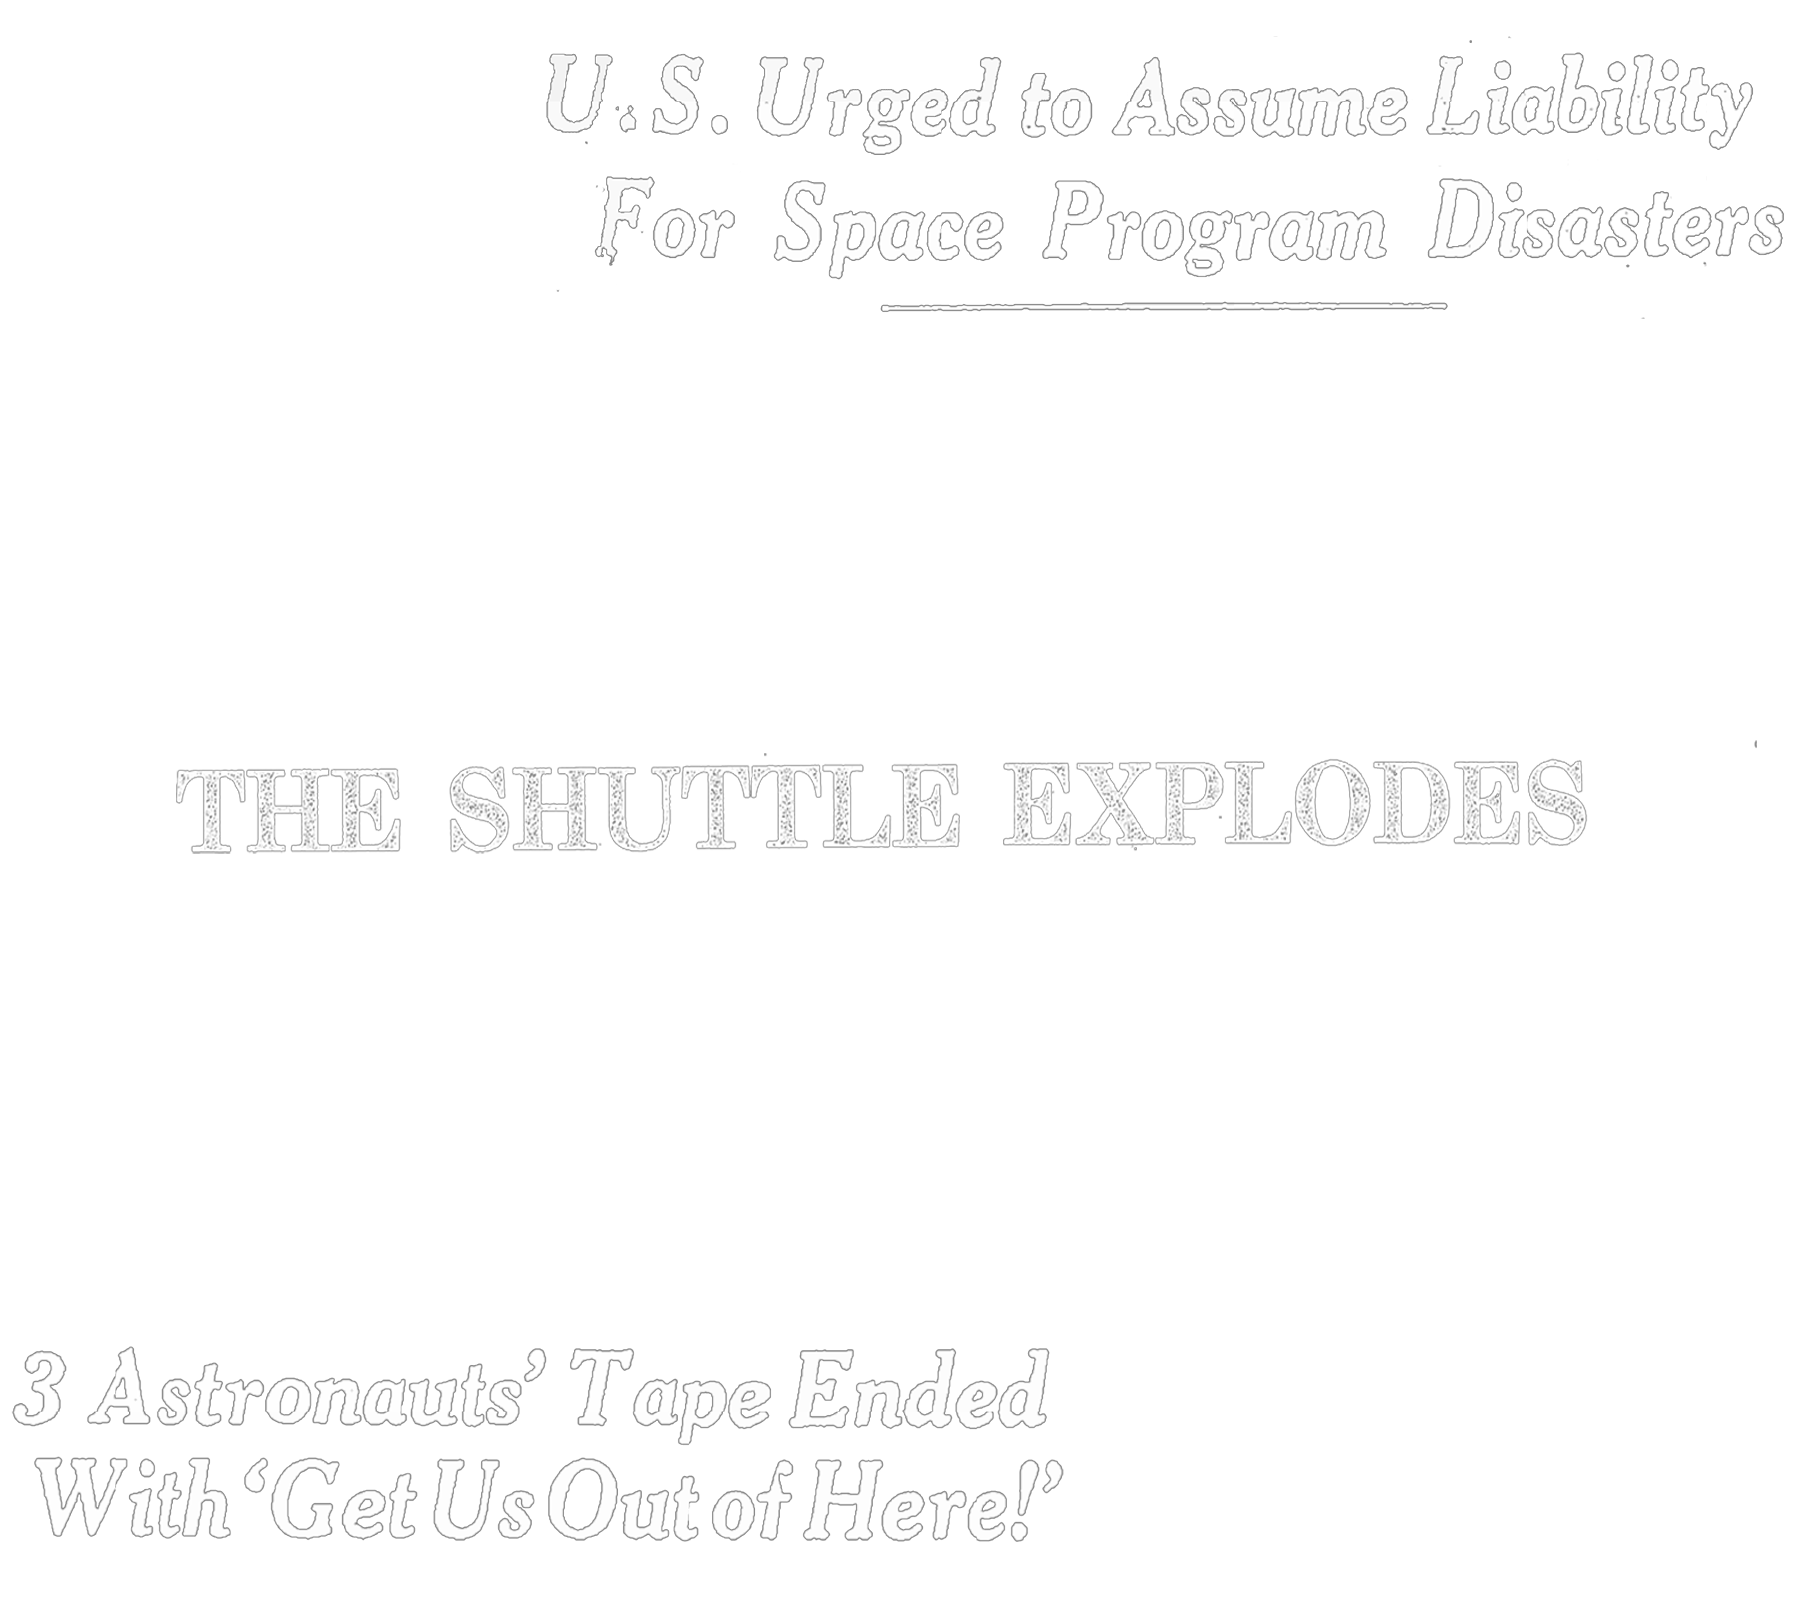
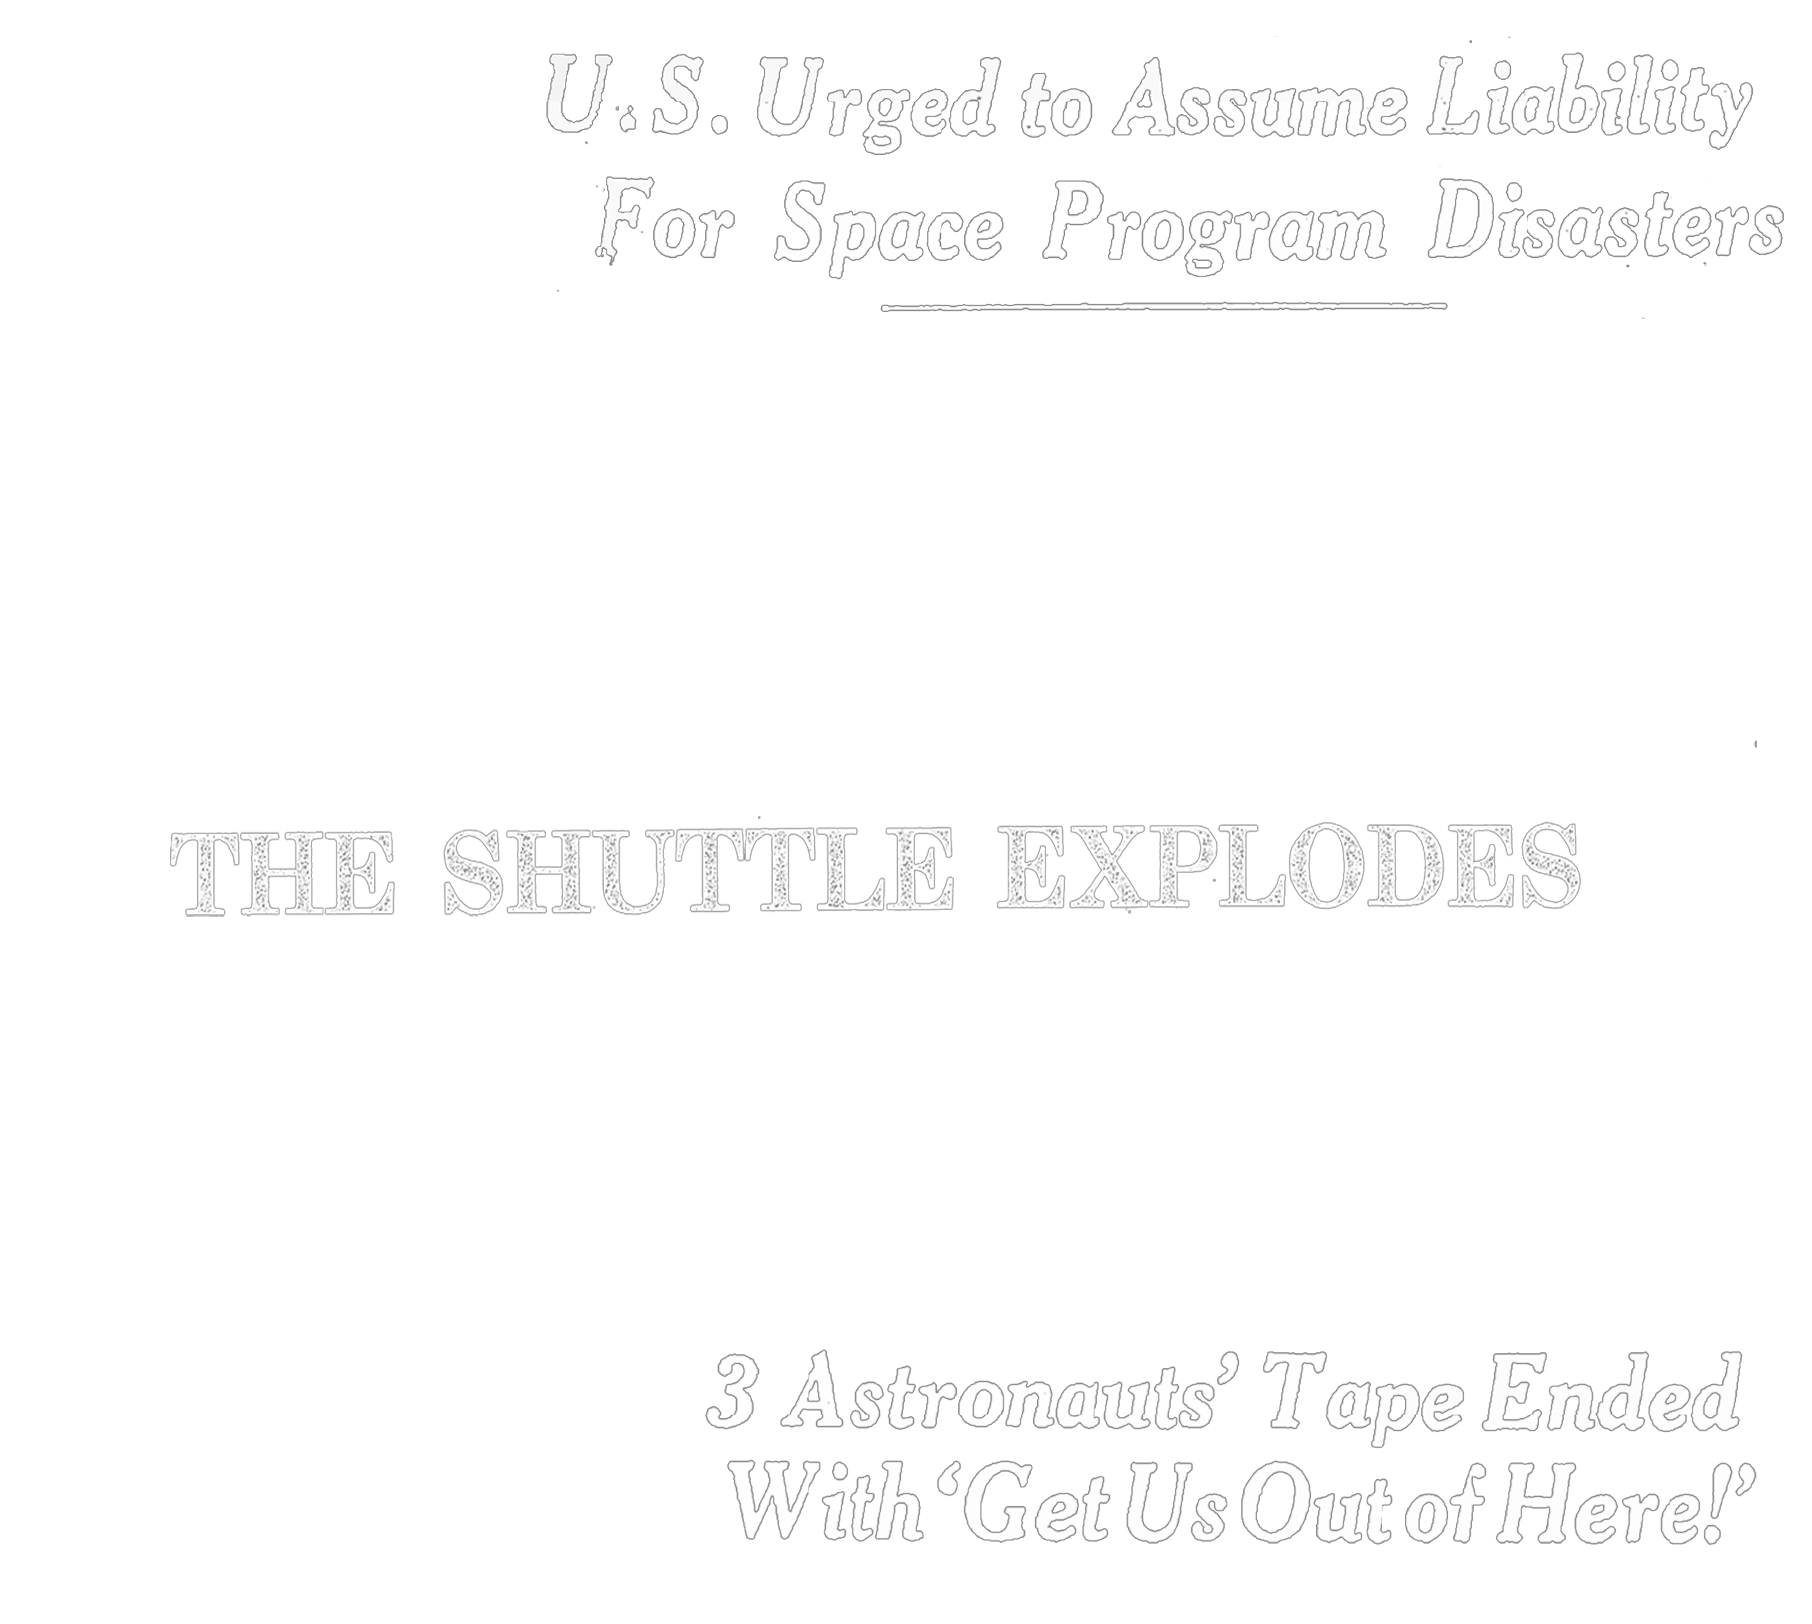
bubble chart width

diff --git a/styles.css b/styles.css
@@ -16,6 +16,8 @@
   --font-main: 'Hanken Grotesk', system-ui, sans-serif;
   --font-mono: 'Geist Mono', monospace;
   --accent-yellow: rgba(214, 208, 121, 0.9);
+  /* Shared left indent for both chart sections (rank + bubble) */
+  --chart-pad-left: clamp(20px, 4vw, 100px);
 }
 
 body {
@@ -152,16 +154,7 @@ body.tas-body {
   letter-spacing: -0.02em;
 }
 
-/* On this page, chart titles carry the page-title hierarchy */
-#rank-section-title,
-#bubble-section-title {
-  font-family: var(--font-main);
-  font-size: clamp(36px, 4.6vw, 46px);
-  font-weight: 300;
-  line-height: 1.05;
-  color: var(--c0);
-  letter-spacing: -0.02em;
-}
+/* Chart titles — both rank and bubble use .bubble-title for a single unified hierarchy */
 
 .rank-section {
   flex-shrink: 0;
@@ -171,7 +164,7 @@ body.tas-body {
   display: flex;
   flex-direction: column;
   margin-top: clamp(16px, 2.5vh, 36px);
-  padding-left: clamp(20px, 4vw, 100px);
+  padding-left: var(--chart-pad-left);
   box-sizing: border-box;
 }
 .chart-header {
@@ -261,9 +254,8 @@ body.tas-body {
   min-height: calc(100dvh - var(--nav-h));
   margin-top: clamp(40px, 6vh, 88px);
   width: 100%;
-  /* Match page padding so header aligns with page content edge */
-  padding-left: clamp(20px, 4vw, 100px);
-  padding-right: clamp(20px, 4vw, 100px);
+  padding-left: var(--chart-pad-left);
+  padding-right: var(--chart-pad-left);
   box-sizing: border-box;
 }
 
@@ -280,15 +272,15 @@ body.tas-body .bubble-section #chart-wrap {
   align-items: center;
   min-height: 0;
   margin-left: 0;}
-/* In drilldown: remove BOTH paddings so the SVG can span the full section width. */
+/* In drilldown: remove right padding so the SVG can reach the right edge,
+   but keep left padding so the SVG labels naturally align with the header title. */
 body.tas-body .bubble-section.drilldown-active {
   padding-right: 0;
-  padding-left: 0;
 }
-/* Restore header alignment when section padding is zeroed in drilldown */
+/* Header needs no extra padding in drilldown — it inherits the section's left padding */
 body.tas-body .bubble-section.drilldown-active .bubble-header {
-  padding-left: clamp(20px, 4vw, 100px);
-  padding-right: clamp(20px, 4vw, 100px);
+  padding-left: 0;
+  padding-right: 0;
 }
 /* When drilldown-active, chart-wrap's margin-left shifts left by the legend column.
    The SVG's negative margin-left compensates so it starts at the left edge. */
@@ -491,6 +483,7 @@ body.tts-body .tts-page.landing-page {
     clip-path: inset(50%);
     white-space: nowrap;
     border: 0;
+    visibility: hidden;
   }
   body.tas-body .page.tas-page > .page-hero {
     position: absolute;
@@ -502,6 +495,7 @@ body.tts-body .tts-page.landing-page {
     clip-path: inset(50%);
     white-space: nowrap;
     border: 0;
+    visibility: hidden;
   }
 }
 
@@ -2027,22 +2021,19 @@ h1 {
   flex-shrink: 0;
 }
 .bubble-header-grid {
-  display: grid;
-  grid-template-columns: minmax(0, 1fr) minmax(160px, min(300px, 36vw));
-  gap: 28px 40px;
-  align-items: start;
+  display: block;
 }
 .bubble-header-main {
   min-width: 0;
 }
 .bubble-title {
   font-family: var(--font-main);
-  font-size: clamp(22px, 2.75vw, 32px);
+  font-size: clamp(28px, 3.5vw, 42px);
   font-weight: 300;
-  line-height: 1.08;
+  line-height: 1.05;
   color: var(--c0);
-  margin: 6px 0 16px;
-  letter-spacing: -0.015em;
+  margin: 0 0 12px;
+  letter-spacing: -0.02em;
 }
 .page-subtitle--planets {
   min-height: 2.75em;
@@ -2933,7 +2924,7 @@ h1 {
   display: flex;
   flex-direction: row;
   justify-content: space-between;
-  align-items: flex-start;
+  align-items: stretch;
   gap: clamp(24px, 4vw, 60px);
   margin-top: clamp(36px, 5vh, 56px);
   width: 100%;
@@ -2969,6 +2960,7 @@ h1 {
   opacity: 0;
   transition: opacity 0.22s ease;
   pointer-events: none;
+  line-height: 1;
 }
 .landing-entry-card:hover::after {
   opacity: 1;

diff --git a/talking_about_space.html b/talking_about_space.html
@@ -177,7 +177,6 @@
             <button type="button" class="back-link bubble-back" id="back-link">← all themes</button>
           </div>
         </div>
-        <div id="bubble-drill-slot" class="bubble-drill-slot" aria-live="polite"></div>
       </div>
     </header>
     <div id="chart-wrap">
@@ -190,6 +189,46 @@
 
 <div id="tooltip"></div>
 
+<script>
+// Set initial scrolly phase before first paint to prevent hero flash on mid-page reload.
+// Runs synchronously so the correct panel is visible from the very first frame.
+(function() {
+  function setInitialPhase() {
+    var scrolly = document.getElementById('scrolly');
+    var chartsScrolly = document.getElementById('tas-charts-scrolly');
+    if (window.innerWidth <= 900) return;
+    // Helper: given a scrolly section and its sticky inner selector,
+    // set the phase to whichever track the current scroll position falls into.
+    function applyPhase(section, innerSel) {
+      if (!section) return;
+      var inner = section.querySelector(innerSel);
+      if (!inner) return;
+      var tracks = section.querySelectorAll('.scrolly-track');
+      if (!tracks.length) return;
+      var scrolled = window.scrollY - section.getBoundingClientRect().top - window.scrollY;
+      // getBoundingClientRect gives position relative to viewport; add scrollY for page offset.
+      var sectionTop = section.getBoundingClientRect().top + window.scrollY;
+      var relScroll = window.scrollY - sectionTop;
+      var vh = window.innerHeight;
+      var current = tracks[0];
+      for (var i = 0; i < tracks.length; i++) {
+        var trackTop = tracks[i].offsetTop;
+        if (relScroll >= trackTop - vh * 0.5) current = tracks[i];
+      }
+      var phase = current.getAttribute('data-scrolly-phase');
+      if (phase) inner.setAttribute('data-phase', phase);
+    }
+    applyPhase(scrolly, '.scrolly-sticky-inner');
+    applyPhase(chartsScrolly, '.scrolly-sticky-inner');
+  }
+  // Run after DOM is ready but before any paint.
+  if (document.readyState === 'loading') {
+    document.addEventListener('DOMContentLoaded', setInitialPhase);
+  } else {
+    setInitialPhase();
+  }
+})();
+</script>
 <script src="https://cdn.jsdelivr.net/npm/d3@7.9.0/dist/d3.min.js"></script>
 <!-- Scrollama: IntersectionObserver-based scrollytelling step detection -->
 <script src="https://cdn.jsdelivr.net/npm/scrollama@3.2.0/build/scrollama.min.js"></script>

diff --git a/talking_to_space.html b/talking_to_space.html
@@ -166,6 +166,34 @@
 
 <div id="tooltip"></div>
 
+<script>
+// Set initial scrolly phase before first paint to prevent hero flash on mid-page reload.
+(function() {
+  function setInitialPhase() {
+    if (window.innerWidth <= 900) return;
+    var scrolly = document.getElementById('scrolly');
+    if (!scrolly) return;
+    var inner = scrolly.querySelector('.scrolly-sticky-inner');
+    if (!inner) return;
+    var tracks = scrolly.querySelectorAll('.scrolly-track');
+    if (!tracks.length) return;
+    var sectionTop = scrolly.getBoundingClientRect().top + window.scrollY;
+    var relScroll = window.scrollY - sectionTop;
+    var vh = window.innerHeight;
+    var current = tracks[0];
+    for (var i = 0; i < tracks.length; i++) {
+      if (relScroll >= tracks[i].offsetTop - vh * 0.5) current = tracks[i];
+    }
+    var phase = current.getAttribute('data-scrolly-phase');
+    if (phase) inner.setAttribute('data-phase', phase);
+  }
+  if (document.readyState === 'loading') {
+    document.addEventListener('DOMContentLoaded', setInitialPhase);
+  } else {
+    setInitialPhase();
+  }
+})();
+</script>
 <!-- Scrollama: IntersectionObserver-based scrollytelling step detection -->
 <script src="https://cdn.jsdelivr.net/npm/scrollama@3.2.0/build/scrollama.min.js"></script>
 <script src="talking_to_space.js"></script>
